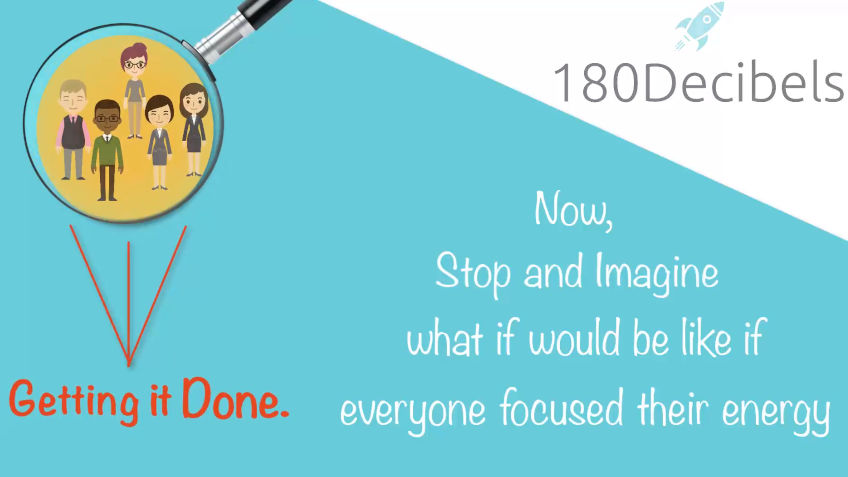
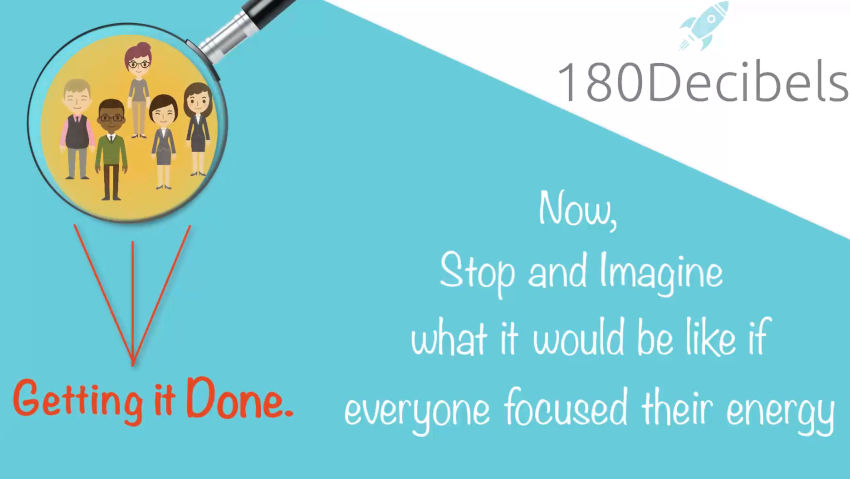
Fixed typo in image.  Footer sitemap stays in 2 columns on small screens

diff --git a/client/src/components/Footer/Footer.js b/client/src/components/Footer/Footer.js
@@ -11,7 +11,7 @@ export default () => [
   <div key="footer-spacing" className={styles['footer-spacing']} />,
   <Container key="footer" fluid className={styles.footer}>
     <Row className={styles['site-map']}>
-      <Col sm={{ size: '4', offset: '2' }}>
+      <Col xs="6" sm={{ size: '4', offset: '2' }}>
         <Navbar>
           <Nav vertical>
             <NavItem>
@@ -28,7 +28,7 @@ export default () => [
           </Nav>
         </Navbar>
       </Col>
-      <Col sm={{ size: '4' }}>
+      <Col xs="6" sm={{ size: '4' }}>
         <Navbar>
           <Nav vertical>
             <NavItem>

diff --git a/client/src/pages/Home/Home.js b/client/src/pages/Home/Home.js
@@ -28,7 +28,7 @@ export const Home = ({ doClickHelpMe, doClickHelpMyTeam }) => (
             imageSrc="/teal-mountains.jpg"
             parallaxOffset={150}
             opacity={0.4}
-            minHeight="40vh"
+            minHeight="35em"
             className={styles.banner}
           >
             <h1>Management Consulting for the Modern Manager</h1>

diff --git a/client/src/pages/Home/Home.module.scss b/client/src/pages/Home/Home.module.scss
@@ -17,12 +17,16 @@
 
   h1 {
     margin-bottom: 2em;
+    margin-left: .5em;
+    margin-right: .5em;
     text-shadow: 0 0 25px rgba(255, 255, 255, 1);
   }
 
   :global .card {
     background-color: rgba($decibels-soft-white, 0.9);
     border-radius: 2em;
+    margin-left: .5em;
+    margin-right: .5em;
     padding: 0.25em;
   }
 }
